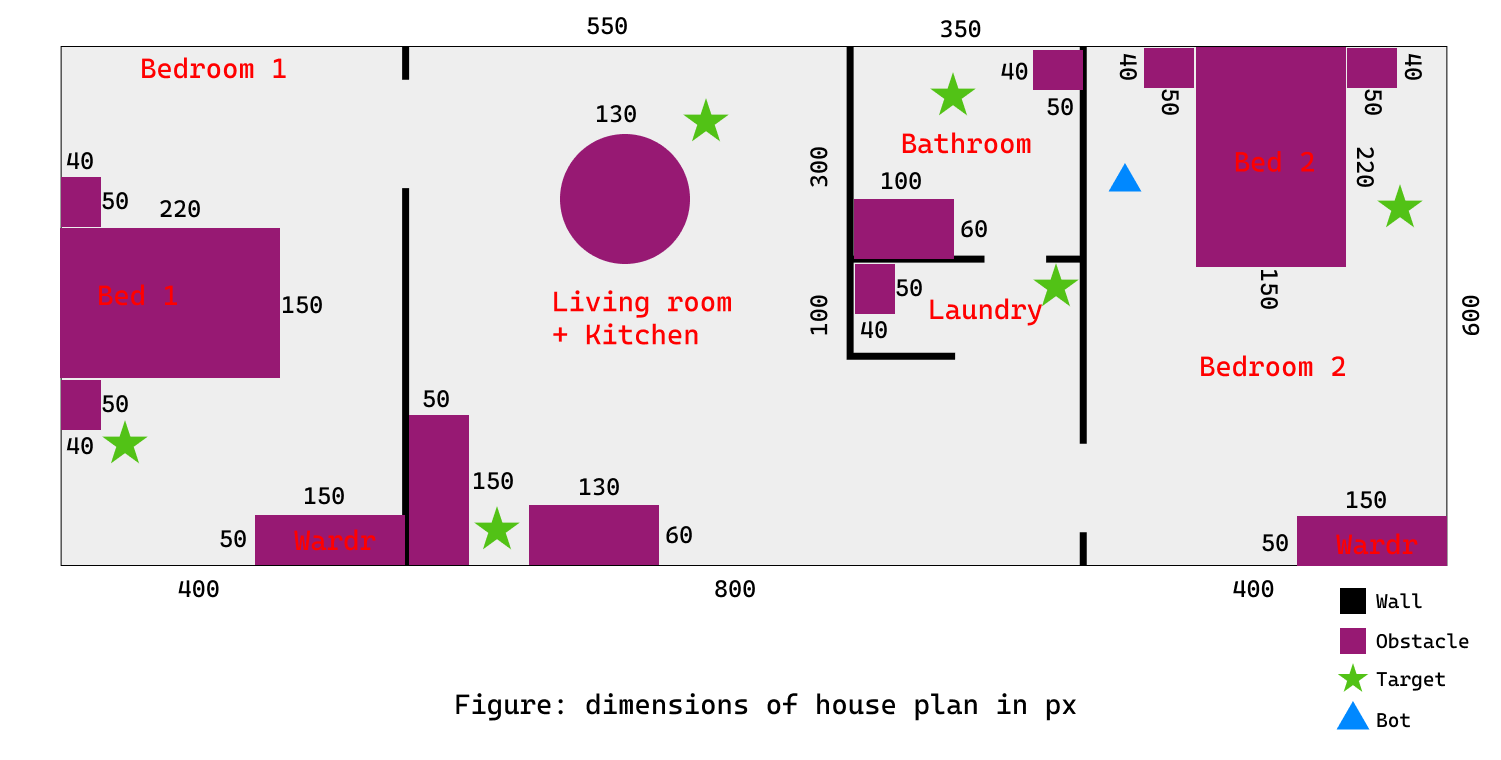
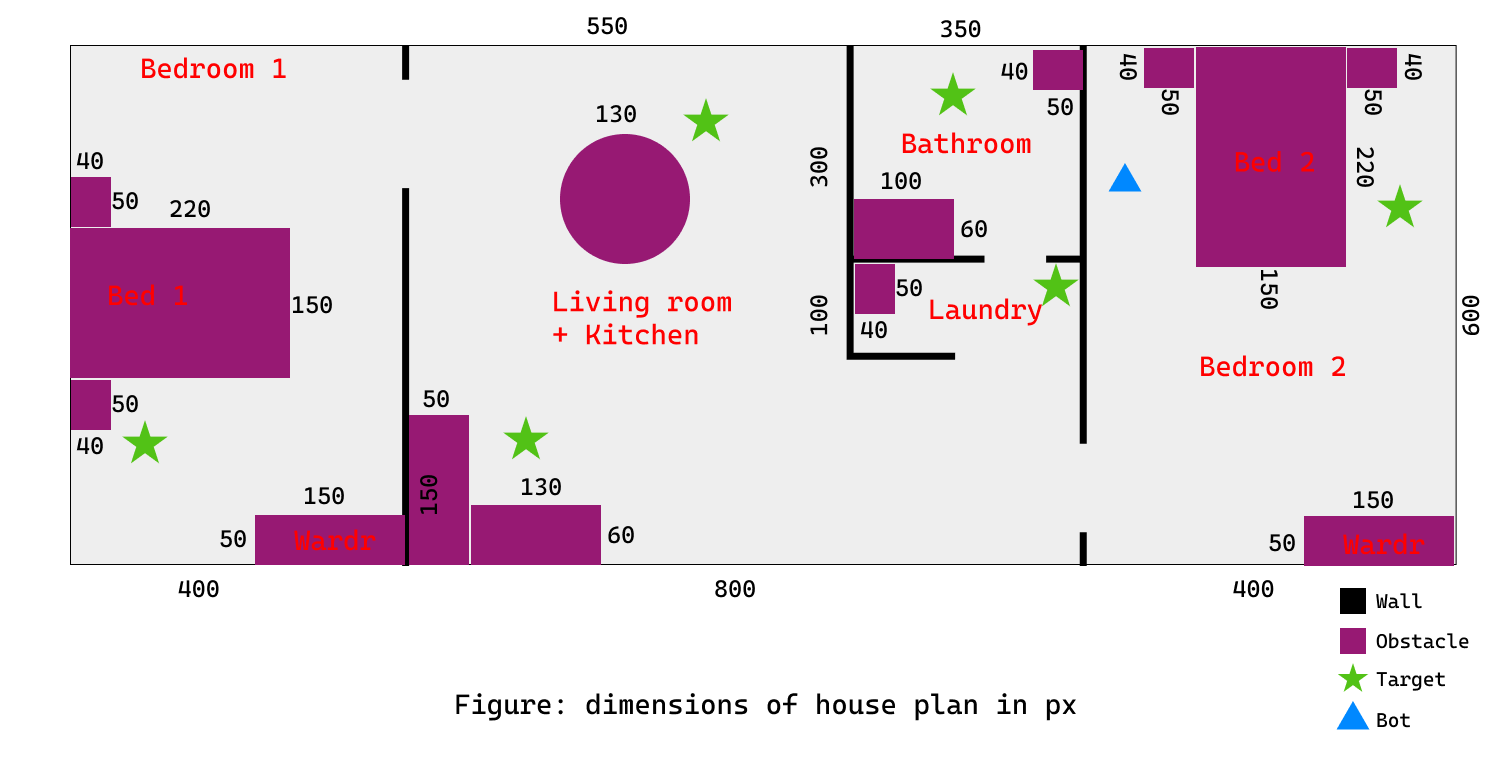
feat: add static obstacles

diff --git a/2d_plan.py b/2d_plan.py
@@ -12,7 +12,7 @@ rl.SetTargetFPS(60)
 # Define colors
 WALL_COLOR = BLACK
 FLOOR_COLOR = LIGHTGRAY
-DOOR_COLOR = BROWN
+FURNITURE_COLOR = PINK
 
 # Define walls and rooms
 walls = [
@@ -38,14 +38,43 @@ walls = [
     (950, 400, 110, 7),
 ]
 
+furniture = [
+    # bedroom 1
+    (54, 225, 40, 50), # bedside drawer 1
+    (54, 280, 220, 150), # bed
+    (54, 435, 40, 50), # bedside drawer 2
+    (300, 600, 150, 50), # wardrobe 1
+
+    # kitchen
+    (458, 500, 50, 150), # cabinet 1
+    (510, 590, 130, 60), # cabinet 2
+
+    # bathroom
+    (1176, 54, 70, 60), # wc
+    (960, 186, 100, 60), # tub
+
+    # laundry
+    (960, 260, 50, 70), # washer
+
+    # bedroom 2
+    (1337, 54, 50, 40), # bedside drawer 1
+    (1390, 54, 150, 220), # bed
+    (1544, 54, 50, 40), # bedside drawer 2
+    (1500, 600, 150, 50), # wardrobe 1
+]
+
 # Define doors
 # doors = [
 #     (355, 200, 10, 60),  # Door between left rooms
 #     (500, 305, 60, 10),  # Door to bottom right room
 # ]
 
-# Convert walls and doors to Rectangle structs
+# Convert walls and furniture to Rectangle structs
 c_walls = [ffi.new("Rectangle *", [x, y, w, h]) for x, y, w, h in walls]
+c_furniture = [ffi.new("Rectangle *", [x, y, w, h]) for x, y, w, h in furniture]
+
+# living room table is a cirle
+# center_table = [ffi.new("Circle *", [700, 300, 100])]
 # c_doors = [ffi.new("Rectangle *", [x, y, w, h]) for x, y, w, h in doors]
 
 # Main game loop
@@ -60,17 +89,23 @@ while not rl.WindowShouldClose():
     for wall in c_walls:
         rl.DrawRectangleRec(wall[0], WALL_COLOR)
 
+    # Draw walls
+    for furniture in c_furniture:
+        rl.DrawRectangleRec(furniture[0], FURNITURE_COLOR)
+
+    # for i in center_table:
+    rl.DrawCircle(700, 300, 100, FURNITURE_COLOR)
     # Draw doors
     # for door in c_doors:
     #     rl.DrawRectangleRec(door[0], DOOR_COLOR)
 
     # Add labels to rooms
-    rl.DrawText(b"Bedroom 1", 100, 200, 20, RED)
+    rl.DrawText(b"Bedroom 1", 200, 450, 20, RED)
     rl.DrawText(b"Bedroom 2", 1400, 400, 20, RED)
-    rl.DrawText(b"Living Room", 550, 150, 20, RED)
-    rl.DrawText(b"Kitchen", 550, 500, 20, RED)
-    rl.DrawText(b"Bathroom", 1000, 200, 20, RED)
-    rl.DrawText(b"Laundry", 1000, 300, 20, RED)
+    rl.DrawText(b"Living Room", 650, 150, 20, RED)
+    rl.DrawText(b"Kitchen", 550, 530, 20, RED)
+    rl.DrawText(b"Bathroom", 1050, 150, 20, RED)
+    rl.DrawText(b"Laundry", 1050, 320, 20, RED)
 
     rl.EndDrawing()
 

diff --git a/README.md b/README.md
@@ -6,4 +6,4 @@ Implementations of different path planning algorithms so a robot can navigate wi
 
 ### Assumptions
 - No doors
-- Map provided
+- Map provided (ignoring perception)
